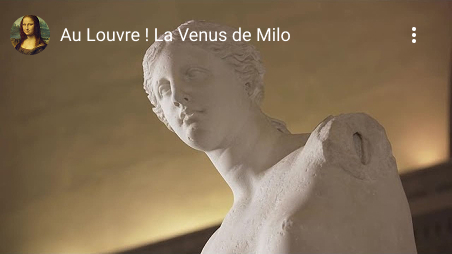
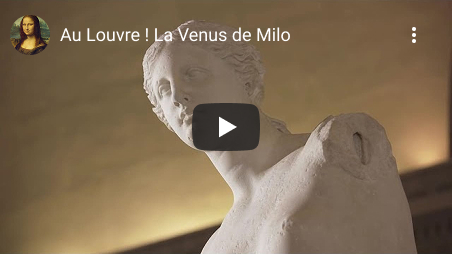
feat: add video section styles

Changed region(s): [[0.4027, 0.3858, 0.5885, 0.6063]]

diff --git a/museum/index.html b/museum/index.html
@@ -201,85 +201,26 @@
         </div>
         <div class="video__player">
           <img src="./assets/img/video-img/video-img.jpg" alt="" class="video__player-img">
-          <button class="video__player-img">
-            <svg width="220" height="220" viewBox="0 0 220 220" fill="none" xmlns="http://www.w3.org/2000/svg">
-              <g clip-path="url(#clip0_1_1905)">
-                <path
-                  d="M110 8.89168C130.003 8.88778 149.558 14.816 166.191 25.9266C182.825 37.0372 195.79 52.831 203.446 71.3106C211.103 89.7901 213.107 110.125 209.206 129.744C205.304 149.363 195.672 167.384 181.528 181.528C167.384 195.672 149.363 205.304 129.744 209.206C110.125 213.107 89.7901 211.103 71.3106 203.446C52.8311 195.79 37.0372 182.825 25.9266 166.191C14.816 149.558 8.88783 130.003 8.89174 110C8.92833 83.1956 19.5925 57.4996 38.546 38.546C57.4996 19.5925 83.1956 8.92828 110 8.89168ZM110 0C88.2441 0 66.9767 6.45139 48.8873 18.5383C30.7979 30.6253 16.6989 47.805 8.37331 67.9048C0.0476618 88.0047 -2.1307 110.122 2.11367 131.46C6.35805 152.798 16.8345 172.398 32.2183 187.782C47.602 203.166 67.2022 213.642 88.5401 217.886C109.878 222.131 131.995 219.952 152.095 211.627C172.195 203.301 189.375 189.202 201.462 171.113C213.549 153.023 220 131.756 220 110C220 80.8262 208.411 52.8473 187.782 32.2183C167.153 11.5893 139.174 0 110 0Z"
-                  fill="white" />
-                <path d="M167.954 110L76.5278 49.9119C76.6463 140.498 76.5278 96.0498 76.5278 170.088L167.954 110Z"
-                  fill="white" />
-              </g>
-              <defs>
-                <clipPath id="clip0_1_1905">
-                  <rect width="220" height="220" fill="white" />
-                </clipPath>
-              </defs>
-            </svg>
+          <button class="video__player-icon">
+            <img src="./assets/img/icons/video-btn.svg" alt="">
           </button>
-          <div class="video__player-controls">
-            <button class="video__player-play">
-              <svg width="23" height="31" viewBox="0 0 23 31" fill="none" xmlns="http://www.w3.org/2000/svg">
-                <g clip-path="url(#clip0_1_1902)">
-                  <path d="M23 15.5053L0 0C0 23.3683 0 11.8996 0 31L23 15.5053Z" fill="#B3B3B3" />
-                </g>
-                <defs>
-                  <clipPath id="clip0_1_1902">
-                    <rect width="23" height="31" fill="white" />
-                  </clipPath>
-                </defs>
-              </svg>
-            </button>
-            <div class="video__player-duration">
-              <svg width="929" height="15" viewBox="0 0 929 15" fill="none" xmlns="http://www.w3.org/2000/svg">
-                <path d="M497 4H929V12H497V4Z" fill="#C4C4C4" />
-                <path d="M0 4H497V12H0V4Z" fill="#710707" />
-                <rect x="491" width="15" height="15" rx="7.5" fill="white" />
-              </svg>
-            </div>
-            <button class="video__player-sound">
-              <svg width="38" height="31" viewBox="0 0 38 31" fill="none" xmlns="http://www.w3.org/2000/svg">
-                <g clip-path="url(#clip0_25_108)">
-                  <path
-                    d="M19.3511 0C18.875 0 18.4622 0.161587 18.1138 0.484761L8.9609 8.97374H1.76C1.28282 8.97374 0.871122 9.13533 0.522673 9.4585C0.174224 9.78167 0 10.1645 0 10.6061V20.3939C0 20.8355 0.174224 21.2183 0.522673 21.5415C0.871122 21.8647 1.28393 22.0263 1.76 22.0263H8.9609L18.1138 30.5152C18.4622 30.8384 18.8739 31 19.3511 31C19.8283 31 20.24 30.8384 20.5884 30.5152C20.9369 30.1921 21.1111 29.8102 21.1111 29.3677V1.63234C21.1111 1.1908 20.9369 0.807935 20.5895 0.484761C20.2422 0.161587 19.8294 0 19.3522 0H19.3511Z"
-                    fill="#B3B3B3" />
-                  <path
-                    d="M29.5979 19.1322C30.3389 18.0151 30.7094 16.8082 30.7094 15.5103C30.7094 14.2125 30.3389 13.0014 29.5979 11.8751C28.8569 10.7487 27.8774 9.95512 26.6561 9.49425C26.4819 9.40952 26.2634 9.36612 26.0027 9.36612C25.5499 9.36612 25.1572 9.52422 24.8258 9.83939C24.4943 10.1566 24.3286 10.5431 24.3286 11.004C24.3286 11.3625 24.4331 11.6653 24.6432 11.9123C24.8532 12.1592 25.1044 12.3731 25.4011 12.5519C25.6966 12.7307 25.9932 12.927 26.2898 13.1409C26.5864 13.3548 26.8387 13.6565 27.0477 14.0492C27.2567 14.4419 27.3612 14.9286 27.3612 15.5083C27.3612 16.088 27.2567 16.5747 27.0477 16.9673C26.8387 17.36 26.5864 17.6628 26.2898 17.8756C25.9932 18.0885 25.6966 18.2859 25.4011 18.4646C25.1044 18.6434 24.8522 18.8573 24.6432 19.1043C24.4342 19.3512 24.3286 19.655 24.3286 20.0126C24.3286 20.4734 24.4954 20.8609 24.8258 21.1771C25.1572 21.4913 25.5488 21.6514 26.0027 21.6514C26.2634 21.6514 26.4819 21.6091 26.6561 21.5233C27.8763 21.0449 28.8569 20.2471 29.5979 19.1291V19.1322Z"
-                    fill="#B3B3B3" />
-                  <path
-                    d="M35.7563 22.8582C37.252 20.6112 37.9999 18.1571 37.9999 15.499C37.9999 12.8419 37.252 10.3899 35.7563 8.13971C34.2605 5.89271 32.2811 4.25452 29.819 3.23039C29.591 3.14417 29.362 3.10001 29.1329 3.10001C28.6759 3.10001 28.2796 3.26509 27.9451 3.59525C27.6105 3.92541 27.4443 4.31551 27.4443 4.76764C27.4443 5.44479 27.7874 5.95685 28.4735 6.30489C29.4579 6.80855 30.1269 7.19023 30.4785 7.45099C31.7803 8.38891 32.7967 9.56445 33.5265 10.9797C34.2562 12.395 34.6216 13.9007 34.6216 15.5C34.6216 17.0972 34.2562 18.6039 33.5265 20.0203C32.7967 21.4356 31.7803 22.6111 30.4785 23.549C30.1269 23.8098 29.4579 24.1915 28.4735 24.6951C27.7874 25.0432 27.4443 25.5542 27.4443 26.2324C27.4443 26.6835 27.6116 27.0746 27.9451 27.4048C28.2785 27.7349 28.6833 27.9 29.1585 27.9C29.3694 27.9 29.59 27.8558 29.818 27.7696C32.28 26.7444 34.2605 25.1084 35.7552 22.8593L35.7563 22.8582Z"
-                    fill="#B3B3B3" />
-                </g>
-                <defs>
-                  <clipPath id="clip0_25_108">
-                    <rect width="38" height="31" fill="white" />
-                  </clipPath>
-                </defs>
-              </svg>
-            </button>
-            <div class="video__player-scroll">
-              <svg width="155" height="15" viewBox="0 0 155 15" fill="none" xmlns="http://www.w3.org/2000/svg">
-                <path d="M67 4H155V12H67V4Z" fill="#C4C4C4" />
-                <path d="M0 4H67V12H0V4Z" fill="#710707" />
-                <rect x="60" width="15" height="15" rx="7.5" fill="white" />
-              </svg>
-            </div>
-            <button class="video__player-screen">
-              <svg width="35" height="35" viewBox="0 0 35 35" fill="none" xmlns="http://www.w3.org/2000/svg">
-                <g clip-path="url(#clip0_1_1882)">
-                  <path d="M30.6055 30.7513H22.4097V34.8638H34.7083V22.5069H30.6055V30.7513Z" fill="#B3B3B3" />
-                  <path d="M4.10278 22.5069H0V34.8638H12.2986V30.7513H4.10278V22.5069Z" fill="#B3B3B3" />
-                  <path d="M0 12.3569H4.10278V4.12222H12.2986V0H0V12.3569Z" fill="#B3B3B3" />
-                  <path d="M22.4097 0V4.12222H30.6055V12.3569H34.7083V0H22.4097Z" fill="#B3B3B3" />
-                </g>
-                <defs>
-                  <clipPath id="clip0_1_1882">
-                    <rect width="35" height="35" fill="white" />
-                  </clipPath>
-                </defs>
-              </svg>
-            </button>
+        </div>
+        <div class="video__controls">
+          <button class="video__player-play">
+            <img src="./assets/img/icons/controls-play.svg" alt="">
+          </button>
+          <div class="video__player-duration">
+            <img src="./assets/img/icons/controls-duration.svg" alt="">
           </div>
+          <button class="video__player-sound">
+            <img src="./assets/img/icons/controls-sound.svg" alt="">
+          </button>
+          <div class="video__player-scroll">
+            <img src="./assets/img/icons/controls-scroll.svg" alt="">
+          </div>
+          <button class="video__player-screen">
+            <img src="./assets/img/icons/controls-screen.svg" alt="">
+          </button>
         </div>
         <div class="video__slider">
           <div class="video__slider-items">
@@ -292,25 +233,17 @@
           </div>
           <div class="video__slider-pagination">
             <div class="video__slider-arrow">
-              <svg width="10" height="12" viewBox="0 0 10 12" fill="none" xmlns="http://www.w3.org/2000/svg">
-                <path fill-rule="evenodd" clip-rule="evenodd"
-                  d="M5.4777 0.219168C5.87773 0.564178 5.94259 1.19347 5.62256 1.62473L2.37578 6.00004L5.62256 10.3753C5.94259 10.8066 5.87773 11.4359 5.4777 11.7809C5.07766 12.1259 4.49394 12.056 4.17391 11.6247L0 6.00004L4.17391 0.375342C4.49394 -0.0559202 5.07766 -0.125842 5.4777 0.219168ZM9.65184 0.219168C10.0519 0.564178 10.1167 1.19347 9.7967 1.62473L6.54992 6.00004L9.7967 10.3753C10.1167 10.8066 10.0519 11.4359 9.65184 11.7809C9.2518 12.1259 8.66808 12.056 8.34805 11.6247L4.17414 6.00004L8.34805 0.375342C8.66808 -0.0559202 9.2518 -0.125842 9.65184 0.219168Z"
-                  fill="#999999" />
-              </svg>
+              <img src="./assets/img/icons/video-arrow-left.svg" alt="arrow">
             </div>
             <div class="video__slider-dots">
-              <div class="video__slider-dot"></div>
+              <div class="video__slider-dot active"></div>
               <div class="video__slider-dot"></div>
               <div class="video__slider-dot"></div>
               <div class="video__slider-dot"></div>
               <div class="video__slider-dot"></div>
             </div>
             <div class="video__slider-arrow">
-              <svg width="10" height="12" viewBox="0 0 10 12" fill="none" xmlns="http://www.w3.org/2000/svg">
-                <path fill-rule="evenodd" clip-rule="evenodd"
-                  d="M0.348163 0.219168C0.748196 -0.125842 1.33192 -0.0559202 1.65195 0.375342L5.82586 6.00004L1.65194 11.6247C1.33192 12.056 0.748195 12.1259 0.348162 11.7809C-0.0518709 11.4359 -0.116729 10.8066 0.203297 10.3753L3.45008 6.00004L0.203298 1.62473C-0.116728 1.19347 -0.05187 0.564177 0.348163 0.219168ZM4.5223 0.219168C4.92234 -0.125841 5.50606 -0.0559197 5.82609 0.375342L10 6.00004L5.82609 11.6247C5.50606 12.056 4.92234 12.1259 4.5223 11.7809C4.12227 11.4359 4.05741 10.8066 4.37744 10.3753L7.62422 6.00004L4.37744 1.62473C4.05741 1.19347 4.12227 0.564178 4.5223 0.219168Z"
-                  fill="#999999" />
-              </svg>
+              <img src="./assets/img/icons/video-arrow-right.svg" alt="arrow">
             </div>
           </div>
         </div>

diff --git a/museum/styles/main.css b/museum/styles/main.css
@@ -204,6 +204,8 @@ svg * {
   --color-accent: #710707;
   --color-gold: #9d8665;
   --color-gold-dark: #7E6C51;
+  --color-gray: #999999;
+  --color-dark-gray: #333333;
   --font-family-base: "Roboto", sans-serif;
   --font-second-family: "Forum", sans-serif;
   --container-width: 90rem;
@@ -647,6 +649,77 @@ a:active {
   z-index: 10;
   left: calc(var(--position) - 1.25rem);
   pointer-events: none;
+}
+
+.video {
+  background-color: var(--color-light);
+  padding-bottom: 4.6875rem;
+}
+.video__header {
+  padding-top: 4.6875rem;
+  margin-bottom: 4.6875rem;
+  display: flex;
+  justify-content: space-between;
+  align-items: center;
+}
+.video__descr {
+  max-width: 45rem;
+  color: var(--color-dark);
+  font-weight: 300;
+  font-size: 1.375rem;
+}
+.video__player {
+  position: relative;
+  height: 40.625rem;
+  width: 100%;
+}
+.video__player button {
+  all: unset;
+}
+.video__player-icon img {
+  position: absolute;
+  top: 50%;
+  left: 50%;
+  translate: -50% -50%;
+}
+.video__controls {
+  display: flex;
+  justify-content: space-between;
+  align-items: center;
+  padding: 1.5625rem;
+  background-color: var(--color-dark);
+  margin-bottom: 2.5rem;
+}
+.video__controls button {
+  all: unset;
+}
+.video__slider-items {
+  display: flex;
+  justify-content: space-between;
+  align-items: center;
+  margin-bottom: 2.5rem;
+}
+.video__slider-pagination {
+  display: flex;
+  justify-content: center;
+  align-items: center;
+  gap: 1.25rem;
+}
+.video__slider-dots {
+  display: flex;
+  justify-content: center;
+  gap: 1.25rem;
+}
+.video__slider-dot {
+  content: "";
+  width: 0.75rem;
+  height: 0.75rem;
+  background-color: var(--color-gray);
+  border: none;
+  border-radius: 50%;
+}
+.video__slider-dot.active {
+  background-color: var(--color-dark-gray);
 }
 
 .gallery {

diff --git a/museum/styles/blocks/_video.scss b/museum/styles/blocks/_video.scss
@@ -1,0 +1,85 @@
+@use '../helpers' as *;
+
+.video {
+  background-color: var(--color-light);
+  padding-bottom: rem(75);
+
+  &__header {
+    padding-top: rem(75);
+    margin-bottom: rem(75);
+    display: flex;
+    justify-content: space-between;
+    align-items: center;
+  }
+
+  &__descr {
+    max-width: rem(720);
+    color: var(--color-dark);
+    font-weight: 300;
+    font-size: rem(22);
+  }
+
+  &__player {
+    position: relative;
+    height: rem(650);
+    width: 100%;
+
+    & button {
+      all: unset;
+    }
+
+    &-icon img {
+      @include abs-center;
+
+    }
+  }
+
+  &__controls {
+    display: flex;
+    justify-content: space-between;
+    align-items: center;
+    padding: rem(25);
+    background-color: var(--color-dark);
+    margin-bottom: rem(40);
+
+    & button {
+      all: unset
+    }
+  }
+
+  &__slider {
+
+    &-items {
+      display: flex;
+      justify-content: space-between;
+      align-items: center;
+      margin-bottom: rem(40);
+    }
+
+    &-pagination {
+      display: flex;
+      justify-content: center;
+      align-items: center;
+      gap: rem(20);
+    }
+
+    &-dots {
+      display: flex;
+      justify-content: center;
+      gap: rem(20);
+    }
+
+    &-dot {
+      content: '';
+      @include square(rem(12));
+
+      background-color: var(--color-gray);
+      border: none;
+      border-radius: 50%;
+
+      &.active {
+        background-color: var(--color-dark-gray);
+      }
+    }
+  }
+}

diff --git a/museum/styles/_variables.scss b/museum/styles/_variables.scss
@@ -11,6 +11,9 @@
   --color-gold: #9d8665;
   --color-gold-dark: #7E6C51;
 
+  --color-gray: #999999;
+  --color-dark-gray: #333333;
+
   --font-family-base: 'Roboto', sans-serif;
   --font-second-family: 'Forum', sans-serif;
 

diff --git a/museum/styles/main.scss b/museum/styles/main.scss
@@ -12,6 +12,7 @@
 @use 'blocks/visiting';
 @use 'blocks/explore';
 @use 'blocks/comp-slider';
+@use 'blocks/video';
 @use 'blocks/gallery';
 @use 'blocks/tickets';
 @use 'blocks/custome-radio';
